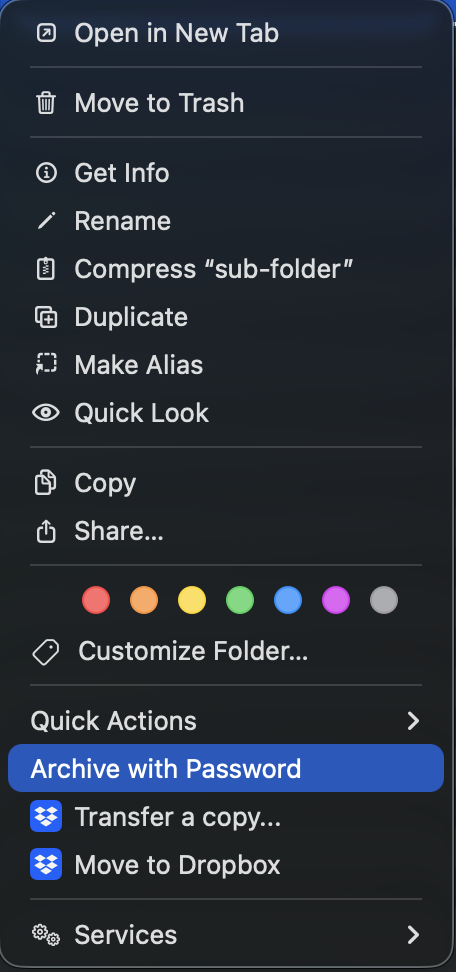
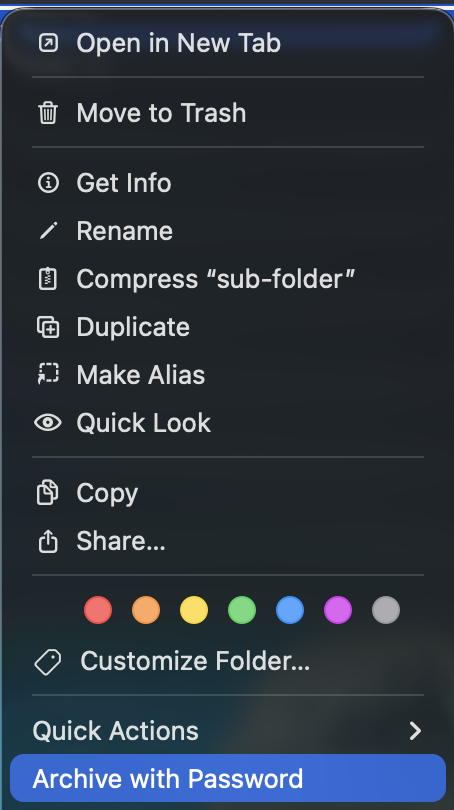
Update Finder menu screenshots in README

diff --git a/README.md b/README.md
@@ -12,7 +12,7 @@ password, and PassArc creates the archive next to the original.
 
 1. Right-click a folder in Finder and choose **Archive with Password**.
 
-   <img src="docs/images/finder-context-menu.png" alt="Finder context menu with Archive with Password highlighted" width="228">
+   <img src="docs/images/finder-context-menu.png" alt="Finder context menu with Archive with Password highlighted" width="227">
 
 2. In the **Archive** dialog, choose a format and compression level. Leave **Protect with a password** checked and enter the password in both fields, or clear it to create an unprotected archive. Click **Compress** to save the archive next to the folder.
 
@@ -44,6 +44,9 @@ The speed and size comparisons are estimates. In Zstandard’s Linux benchmark, 
 ## Extract an archive from Finder
 
 1. Right-click a single `7z`, `zip`, or `tar.zst` archive and choose **Extract with PassArc**.
+
+   <img src="docs/images/finder-extract-context-menu.png" alt="Finder context menu with Extract with PassArc highlighted" width="239">
+
 2. If prompted, enter the archive password and click **Extract**. PassArc supports the AES-256 archives it creates.
 3. PassArc reveals the extracted folder in Finder. The folder is created next to the archive, with a number appended if the name is already in use.
 
